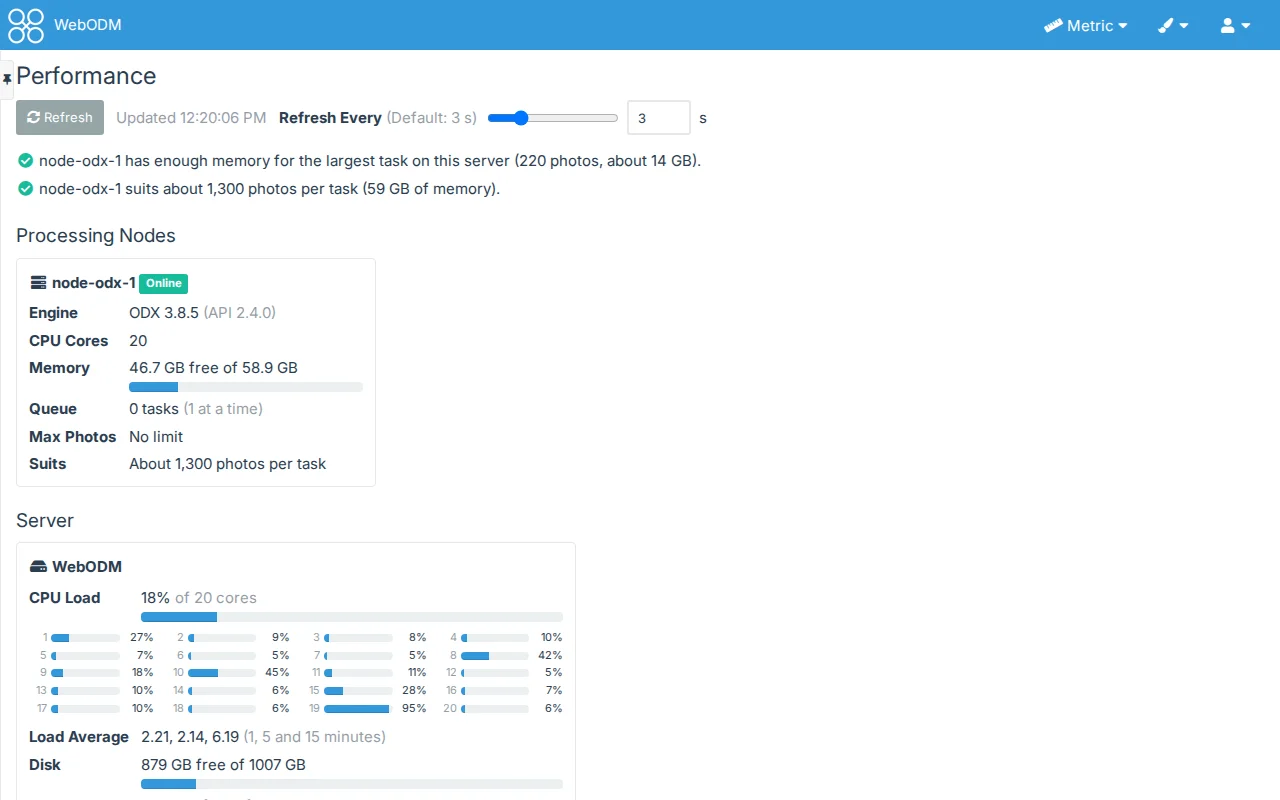
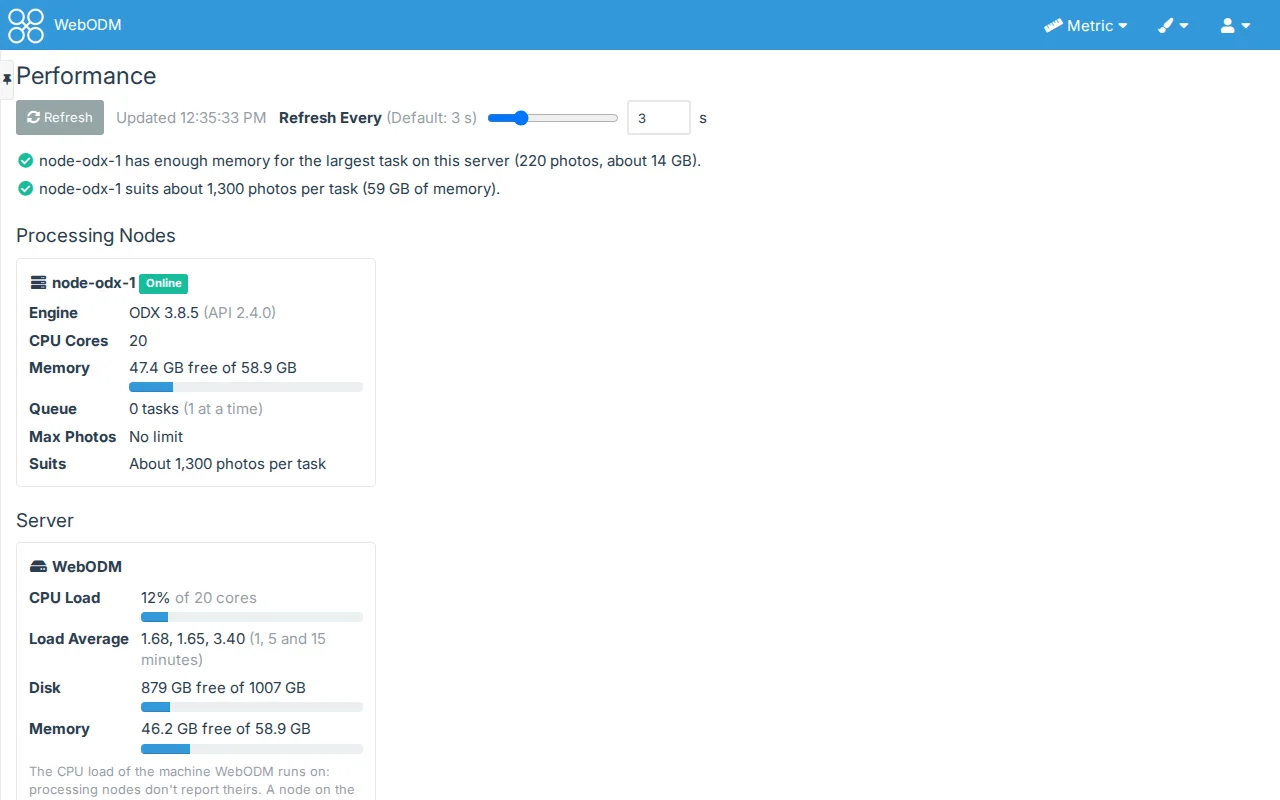
Performance View: CPU Load is the total of all cores in one bar, no bar per core
A bar per core breaks down on a large server (128 cores). The live API sends the total counters and the number of cores only; Windows no longer asks NtQuerySystemInformation for each processor.

diff --git a/tweakui/public/__tests__/performance_page.test.js b/tweakui/public/__tests__/performance_page.test.js
@@ -42,7 +42,7 @@ function page(every = 3) {
     return document.getElementById("tweakui-performance");
 }
 
-// CPU counters as the API gives them: [busy, total] for the machine, then each core
+// CPU counters as the API gives them: [busy, total] for the machine, and how many cores
 function cpu(total, cores, load = [1.5, 1.25, 1]) {
     return {total, cores, load};
 }
@@ -276,24 +276,22 @@ describe("the Performance page", () => {
         expect(performancePage.formatNumber(1234567)).toBe("1,234,567");
     });
 
-    test("the CPU's busy shares come from the difference between two readings, none from one", () => {
-        const a = cpu([100, 1000], [[50, 500], [50, 500]]), b = cpu([400, 2000], [[350, 1000], [50, 1000]]);
-        expect(performancePage.cpuShares(a, b)).toEqual({total: 0.3, cores: [0.6, 0]});
+    test("the CPU's busy share comes from the difference between two readings, none from one", () => {
+        const a = cpu([100, 1000], 2), b = cpu([400, 2000], 2);
+        expect(performancePage.cpuShares(a, b)).toEqual({total: 0.3});
         expect(performancePage.cpuShares(null, b)).toBeNull();
-        expect(performancePage.cpuShares(a, cpu([100, 1000], [[50, 500], [50, 500], [0, 10]]))).toEqual({total: null, cores: [null, null, null]});
+        expect(performancePage.cpuShares(a, cpu([100, 1000], 2))).toEqual({total: null});
     });
 
-    test("CPU Load shows the total, a bar per core and the load averages, and says it is measuring before two readings", () => {
+    test("CPU Load shows the total of all cores in one bar and the load averages, and says it is measuring before two readings", () => {
         const div = document.createElement("table");
-        div.innerHTML = performancePage.cpuRows(cpu([0, 0], [[0, 0], [0, 0]]), null);
+        div.innerHTML = performancePage.cpuRows(cpu([0, 0], 128), null);
         expect(words(div)).toBe("CPU Load Measuring... Load Average 1.50, 1.25, 1.00 (1, 5 and 15 minutes)");
-        div.innerHTML = performancePage.cpuRows(cpu([0, 0], [[0, 0], [0, 0]]), {total: 0.375, cores: [0.75, 0]});
+        div.innerHTML = performancePage.cpuRows(cpu([0, 0], 128), {total: 0.375});
         expect(div.querySelector("[data-cpu-total]").textContent).toBe("38%");
-        expect(texts(div, ".tweakui-performance-core")).toEqual(["1 75%", "2 0%"]);
-        expect(div.querySelector(".tweakui-performance-core .progress-bar").style.width).toBe("75%");
-        div.innerHTML = performancePage.cpuRows(cpu([0, 0], [[0, 0]]), {total: 1, cores: [1]});
-        expect(Array.from(div.querySelectorAll(".progress-bar")).map(b => b.className)).toEqual(["progress-bar progress-bar-success", "progress-bar progress-bar-success"]);
-        div.innerHTML = performancePage.cpuRows(cpu([0, 0], [[0, 0]], null), {total: 0.5, cores: [0.5]});
+        expect(words(div)).toContain("38% of 128 cores");
+        expect(Array.from(div.querySelectorAll(".progress-bar")).map(b => [b.className, b.style.width])).toEqual([["progress-bar progress-bar-success", "38%"]]);
+        div.innerHTML = performancePage.cpuRows(cpu([0, 0], 1, null), {total: 0.5});
         expect(words(div)).not.toContain("Load Average");
         expect(words(div)).toContain("of 1 core");
         expect(performancePage.cpuRows(null, null)).toBe("");
@@ -301,15 +299,15 @@ describe("the Performance page", () => {
 
     test("the live figures are asked a second after the report, then every Refresh Every seconds, with the disk every 10", async () => {
         jest.useFakeTimers();
-        const first = report({server: Object.assign(report().server, {cpu: cpu([0, 0], [[0, 0], [0, 0]])})});
-        const live = (busy, extra) => json(Object.assign({cpu: cpu([busy, busy * 2 + 1000], [[busy, busy * 2 + 500], [0, busy + 500]]),
+        const first = report({server: Object.assign(report().server, {cpu: cpu([0, 0], 2)})});
+        const live = (busy, extra) => json(Object.assign({cpu: cpu([busy, busy * 2 + 1000], 2),
             memory: {total: 64 * GB, free: 32 * GB, used: 32 * GB}, nodes: [{id: 1, online: true, total_memory: 64 * GB, available_memory: 16 * GB}]}, extra));
         const {root, fetchFn} = await started([json(first), live(500), live(1000), live(1500), live(2000, {disk: {total: 1000 * GB, used: 500 * GB, free: 500 * GB}}), live(2500)]);
         expect(root.querySelector("[data-server]").textContent).toContain("Measuring...");
         await jest.advanceTimersByTimeAsync(1000);
         expect(fetchFn.mock.calls[1][0]).toBe("/api/plugins/tweakui/performance/live");
         expect(root.querySelector("[data-cpu-total]").textContent).toBe("25%");
-        expect(texts(root, "[data-server] .tweakui-performance-core")).toEqual(["1 33%", "2 0%"]);
+        expect(root.querySelectorAll("[data-server] .progress-bar")).toHaveLength(3);
         expect(words(root.querySelector("[data-node='1'] [data-memory]"))).toBe("16 GB free of 64 GB");
         expect(words(root.querySelector("[data-server]"))).toContain("Memory 32 GB free of 64 GB");
         await jest.advanceTimersByTimeAsync(2999);

diff --git a/tweakui/public/performance_page.js b/tweakui/public/performance_page.js
@@ -103,17 +103,12 @@
         return Math.round(share * 100) + "%";
     }
 
-    // The CPU's busy shares between two readings of its counters ({total: [busy, total], cores: [...]}, the API's):
-    // {total, cores}, each from 0 to 1, or null where the counters didn't move; null without two readings
+    // The CPU's busy share between two readings of its counters ({total: [busy, total]}, the API's): {total}, from 0
+    // to 1, or null where the counters didn't move; null without two readings
     function cpuShares(prev, next) {
         if (!prev || !next) return null;
-        function share(a, b) {
-            var all = a && b ? b[1] - a[1] : 0;
-            return all > 0 ? Math.min(Math.max((b[0] - a[0]) / all, 0), 1) : null;
-        }
-        return {total: share(prev.total, next.total), cores: (next.cores || []).map(function (c, i) {
-            return prev.cores && prev.cores[i] ? share(prev.cores[i], c) : null;
-        })};
+        var a = prev.total, b = next.total, all = a && b ? b[1] - a[1] : 0;
+        return {total: all > 0 ? Math.min(Math.max((b[0] - a[0]) / all, 0), 1) : null};
     }
 
     function rowHtml(label, value, extra) {
@@ -168,22 +163,13 @@
         return html + '<div class="tweakui-performance-cards">' + nodes.map(nodeHtml).join("") + "</div>";
     }
 
-    // A core in htop's grid: its number, a bar and its share
-    function coreHtml(share, i) {
-        var known = share !== null && share !== undefined;
-        return '<div class="tweakui-performance-core" title="Core ' + (i + 1) + ": " + (known ? percent(share) : "?") + ' busy">' +
-            '<span class="tweakui-performance-core-name text-muted">' + (i + 1) + "</span>" + barHtml(known ? share : 0, 1, true) +
-            '<span class="tweakui-performance-core-value">' + (known ? percent(share) : "") + "</span></div>";
-    }
-
-    // CPU Load (the total, a bar per core) once two readings give it, and the load averages where the system keeps them
+    // CPU Load (the total of all cores) once two readings give it, and the load averages where the system keeps them
     function cpuRows(cpu, load) {
         if (!cpu) return "";
-        var cores = cpu.cores ? cpu.cores.length : 0, rows;
+        var cores = cpu.cores || 0, rows;
         if (load && load.total !== null) {
             rows = rowHtml("CPU Load", '<span data-cpu-total>' + percent(load.total) + "</span>" +
                 (cores ? ' <span class="text-muted">of ' + cores + (cores === 1 ? " core" : " cores") + "</span>" : ""), barHtml(load.total, 1, true));
-            if (load.cores.length) rows += '<tr><td colspan="2"><div class="tweakui-performance-cores">' + load.cores.map(coreHtml).join("") + "</div></td></tr>";
         } else {
             rows = rowHtml("CPU Load", '<span class="text-muted">Measuring...</span>');
         }

diff --git a/tweakui/public/main.css b/tweakui/public/main.css
@@ -357,18 +357,12 @@ html.tweakui-dragging, html.tweakui-dragging * { user-select: none; }
 .tweakui-performance .tweakui-performance-table td { vertical-align: middle; }
 .tweakui-performance .tweakui-performance-number { text-align: right; white-space: nowrap; }
 .tweakui-performance .tweakui-performance-date, .tweakui-performance .tweakui-performance-step { white-space: nowrap; }
-/* Refresh Every beside Refresh, and the server's card wider for htop's grid of cores (as many columns as fit) */
+/* Refresh Every beside Refresh */
 .tweakui-performance .tweakui-performance-every { display: flex; flex-wrap: wrap; align-items: center; gap: 4px 10px; }
 .tweakui-performance .tweakui-performance-every label { margin: 0; }
 .tweakui-performance .tweakui-performance-every .tweakui-number { display: flex; align-items: center; gap: 8px; width: 220px; }
 .tweakui-performance .tweakui-performance-every input[type=range] { flex: 1 1 auto; min-width: 0; margin: 0; }
 .tweakui-performance .tweakui-performance-every input[type=number] { flex: 0 0 64px; width: 64px; }
-.tweakui-performance .tweakui-performance-server { flex-basis: 560px; }
-.tweakui-performance .tweakui-performance-cores { display: grid; grid-template-columns: repeat(auto-fill, minmax(110px, 1fr)); gap: 2px 12px; margin: 2px 0 4px; }
-.tweakui-performance .tweakui-performance-core { display: flex; align-items: center; gap: 4px; font-size: 11px; }
-.tweakui-performance .tweakui-performance-core .tweakui-performance-progress { flex: 1 1 auto; height: 8px; margin: 0; }
-.tweakui-performance .tweakui-performance-core-name { flex: 0 0 18px; text-align: right; }
-.tweakui-performance .tweakui-performance-core-value { flex: 0 0 30px; text-align: right; }
 .tweakui-performance .tweakui-performance-cpu-note { margin: 6px 0 2px; }
 /* Recent Processing: a task's Notes button opens the row below it (its notes, each with its line from the log, and the
    log's other messages); at phone width the wide columns are hidden and their figures come under the task's name */

diff --git a/tweakui/tests/test_tweakui.py b/tweakui/tests/test_tweakui.py
@@ -1574,7 +1574,7 @@ class TestPerformance(TweakUITestCase):
         return res.json()
 
     def test_the_live_figures_are_the_servers_cpu_counters_and_memory_and_the_nodes_memory(self):
-        sample = {"total": [300, 1000], "cores": [[200, 500], [100, 500]], "load": [1.5, 1.0, 0.5]}
+        sample = {"total": [300, 1000], "cores": 2, "load": [1.5, 1.0, 0.5]}
         with mock.patch("coreplugins.tweakui.performance.cpu_entry", return_value=sample), \
                 mock.patch("coreplugins.tweakui.performance.memory_stats",
                            return_value={"total": 32 * GB, "free": 8 * GB, "used": 24 * GB}):
@@ -1587,24 +1587,25 @@ class TestPerformance(TweakUITestCase):
         self.assertEqual(set(self.live("?disk=1")["disk"]), {"total", "used", "free"})
         self.assertIn("cpu", self.report()["server"])
 
-    def test_linux_cpu_counters_come_from_proc_stat_with_idle_and_iowait_as_not_busy(self):
+    def test_linux_cpu_counters_are_proc_stats_total_with_idle_and_iowait_as_not_busy_and_the_number_of_cores(self):
         from coreplugins.tweakui import performance
         with tempfile.NamedTemporaryFile("w", suffix="-proc-stat", delete=False) as f:
             path = f.name
             f.write("cpu  100 10 50 800 40 0 0 0 7 0\ncpu0 60 5 25 400 10 0 0 0 0 0\ncpu1 40 5 25 400 30 0 0 0 0 0\n"
                     "intr 1 2 3\nctxt 99\ncpu9 1 1 1 1 1 1 1 1\n")
         try:
-            self.assertEqual(performance.proc_stat_times(path), [[160, 1000], [90, 500], [70, 500]])
+            self.assertEqual(performance.proc_stat_times(path), [160, 1000])
         finally:
             os.remove(path)
-        with mock.patch("coreplugins.tweakui.performance.proc_stat_times", return_value=[[1, 2], [1, 2]]), \
+        with mock.patch("coreplugins.tweakui.performance.proc_stat_times", return_value=[1, 2]), \
                 mock.patch("coreplugins.tweakui.performance.sys.platform", "linux"), \
+                mock.patch("coreplugins.tweakui.performance.os.cpu_count", return_value=128), \
                 mock.patch("coreplugins.tweakui.performance.os.getloadavg", return_value=(1.234, 0.5, 0.25)):
-            self.assertEqual(performance.cpu_entry(), {"total": [1, 2], "cores": [[1, 2]], "load": [1.23, 0.5, 0.25]})
+            self.assertEqual(performance.cpu_entry(), {"total": [1, 2], "cores": 128, "load": [1.23, 0.5, 0.25]})
         with mock.patch("coreplugins.tweakui.performance.proc_stat_times", side_effect=OSError("no /proc")):
             self.assertIsNone(performance.cpu_entry())
 
-    def test_windows_cpu_counters_come_from_get_system_times_and_each_processors_times_with_no_load_average(self):
+    def test_windows_cpu_counters_come_from_get_system_times_with_no_load_average(self):
         import ctypes
         from coreplugins.tweakui import performance
 
@@ -1614,22 +1615,13 @@ class TestPerformance(TweakUITestCase):
                 ref._obj.low, ref._obj.high = value, 0
             return 1
 
-        def query(kind, buffer, size, length):
-            cores = buffer._obj
-            for core, (idle, kern, user) in zip(cores, ((200, 300, 100), (400, 500, 300))):
-                core.idle, core.kernel, core.user = idle, kern, user
-            length._obj.value = 2 * ctypes.sizeof(cores[0])
-            return 0
-
         windll = mock.Mock()
         windll.kernel32.GetSystemTimes.side_effect = get_system_times
-        windll.ntdll.NtQuerySystemInformation.side_effect = query
         with mock.patch.object(ctypes, "windll", windll, create=True), \
                 mock.patch("coreplugins.tweakui.performance.os.cpu_count", return_value=4), \
                 mock.patch("coreplugins.tweakui.performance.sys.platform", "win32"), \
                 mock.patch("coreplugins.tweakui.performance.os.getloadavg", side_effect=AttributeError, create=True):
-            self.assertEqual(performance.cpu_entry(), {"total": [600, 1200], "cores": [[200, 400], [400, 800]], "load": None})
-        self.assertEqual(windll.ntdll.NtQuerySystemInformation.call_args[0][0], 8)
+            self.assertEqual(performance.cpu_entry(), {"total": [600, 1200], "cores": 4, "load": None})
         windll.kernel32.GetSystemTimes.side_effect = lambda *a: 0
         with mock.patch.object(ctypes, "windll", windll, create=True), \
                 mock.patch("coreplugins.tweakui.performance.sys.platform", "win32"):

diff --git a/tweakui/performance.py b/tweakui/performance.py
@@ -132,35 +132,26 @@ def memory_stats():
 
 
 def proc_stat_times(path="/proc/stat"):
-    """Linux's CPU time counters from /proc/stat, as [busy, total] (in its ticks): the whole machine's first, then
-    each core's. Idle and waiting for the disk count as not busy, as in top"""
-    times = []
+    """Linux's CPU time counters for the whole machine from /proc/stat's first line, as [busy, total] (in its ticks),
+    or [] without one. Idle and waiting for the disk count as not busy, as in top"""
     with open(path, encoding="ascii") as f:
-        for line in f:
-            if not line.startswith("cpu"):
-                if times:
-                    break
-                continue
-            # user nice system idle iowait irq softirq steal (guest time is already in user)
-            fields = [int(v) for v in line.split()[1:9]]
-            total = sum(fields)
-            idle = sum(fields[3:5])
-            times.append([total - idle, total])
-    return times
+        line = f.readline()
+    if not line.startswith("cpu "):
+        return []
+    # user nice system idle iowait irq softirq steal (guest time is already in user)
+    fields = [int(v) for v in line.split()[1:9]]
+    total = sum(fields)
+    return [total - sum(fields[3:5]), total]
 
 
 def windows_times():
-    """Windows' CPU time counters, as [busy, total] (in 100 ns): the whole machine's (GetSystemTimes) first, then
-    each core's (NtQuerySystemInformation's processor performance), read through ctypes as WebODM's Diagnostic page
-    reads Windows' memory. Kernel time includes idle time on both"""
+    """Windows' CPU time counters for the whole machine (GetSystemTimes), as [busy, total] (in 100 ns), or [] where
+    they can't be read; through ctypes, as WebODM's Diagnostic page reads Windows' memory. Kernel time includes idle
+    time"""
     import ctypes
 
     class FILETIME(ctypes.Structure):
         _fields_ = [("low", ctypes.c_uint32), ("high", ctypes.c_uint32)]
-
-    class PROCESSOR_TIMES(ctypes.Structure):
-        _fields_ = [("idle", ctypes.c_longlong), ("kernel", ctypes.c_longlong), ("user", ctypes.c_longlong),
-                    ("dpc", ctypes.c_longlong), ("interrupt", ctypes.c_longlong), ("interrupts", ctypes.c_ulong)]
 
     def value(t):
         return (t.high << 32) | t.low
@@ -169,21 +160,14 @@ def windows_times():
     if not ctypes.windll.kernel32.GetSystemTimes(ctypes.byref(idle), ctypes.byref(kernel), ctypes.byref(user)):
         return []
     total = value(kernel) + value(user)
-    times = [[total - value(idle), total]]
-    cores = (PROCESSOR_TIMES * (os.cpu_count() or 1))()
-    length = ctypes.c_ulong(0)
-    # 8: SystemProcessorPerformanceInformation; 0: STATUS_SUCCESS
-    if ctypes.windll.ntdll.NtQuerySystemInformation(8, ctypes.byref(cores), ctypes.sizeof(cores),
-                                                    ctypes.byref(length)) == 0:
-        for core in cores[:length.value // ctypes.sizeof(PROCESSOR_TIMES)]:
-            times.append([core.kernel + core.user - core.idle, core.kernel + core.user])
-    return times
+    return [total - value(idle), total]
 
 
 def cpu_entry():
-    """The server's CPU time counters ({total: [busy, total], cores: [[busy, total], ...], load: [1, 5, 15 minutes]
-    or None where the system keeps none, as on Windows}), or None where they can't be read. A load is the difference
-    between two readings, which the page works out; in Docker these are the machine's (or Docker Desktop's VM's)"""
+    """The server's CPU time counters ({total: [busy, total], cores: how many, load: [1, 5, 15 minutes] or None where
+    the system keeps none, as on Windows}), or None where they can't be read. A load is the difference between two
+    readings, which the page works out; in Docker these are the machine's (or Docker Desktop's VM's). Only the total:
+    a bar per core would be too many on a large server"""
     try:
         times = windows_times() if sys.platform == "win32" else proc_stat_times()
     except (OSError, ValueError, AttributeError):
@@ -194,7 +178,7 @@ def cpu_entry():
         load = [round(v, 2) for v in os.getloadavg()]
     except (OSError, AttributeError):
         load = None
-    return {"total": times[0], "cores": times[1:], "load": load}
+    return {"total": times, "cores": os.cpu_count(), "load": load}
 
 
 def disk_entry():

diff --git a/docs/performance.md b/docs/performance.md
@@ -38,9 +38,9 @@ The CPU load of the machine WebODM's server runs on, the disk WebODM keeps its t
 server's memory, as WebODM's own **System** page shows them.
 
 **CPU Load** is the share of time the processors were busy since the last refresh, as top and htop show it: the
-total across all cores (100% is every core busy), then a small bar for each core, and, on Linux and in Docker, the
-load averages over 1, 5 and 15 minutes (the number of processes running or waiting, to compare with the number of
-cores). Windows keeps no load average, so WebODM's Windows app shows the total and the cores without it. The first
+total across all cores in one bar (100% is every core busy), with how many cores there are, and, on Linux and in
+Docker, the load averages over 1, 5 and 15 minutes (the number of processes running or waiting, to compare with the
+number of cores). Windows keeps no load average, so WebODM's Windows app shows the total without it. The first
 figures show a second after the page opens: a load is the difference between two readings.
 
 No processing node reports its own CPU load (a node's info has its cores and memory only), so this is the server's

diff --git a/CHANGELOG.md b/CHANGELOG.md
@@ -7,8 +7,8 @@
   error (GPS or GCP) and whether the GPU was used. A Notes button opens what the log says the user should know (out of
   memory, photos left out, low overlap, no GPS, GCPs not used, the GPU failing...) in plain sentences with their lines,
   and the log's other warnings and errors. Area and error follow WebODM's unit system.
-- Performance View: the Server card shows CPU Load, as top and htop do: the total across all cores, a bar per core
-  and the load averages (no load average on Windows, which keeps none). The CPU load and the server's and nodes'
+- Performance View: the Server card shows CPU Load, as top and htop do: the total across all cores in one bar (with
+  how many cores) and the load averages (no load average on Windows, which keeps none). The CPU load and the server's and nodes'
   memory refresh every 3 seconds, set by Refresh Every (1 to 10 seconds, a part of Show Performance View, also on the
   Performance page), and the disk every 10 seconds, paused while the browser tab is hidden.
 - The settings page's number settings show their default after their name ("Zoom Sensitivity (Default:
